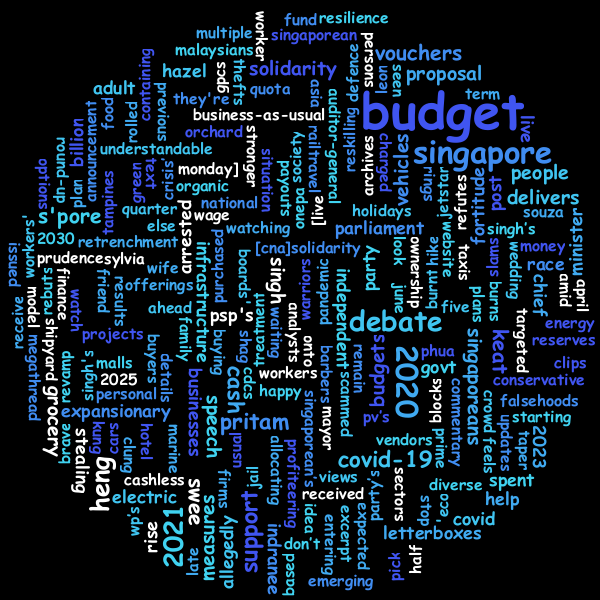
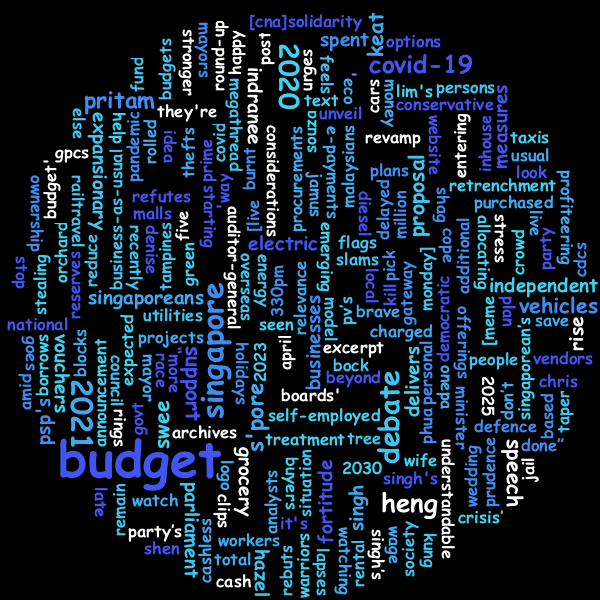
-

diff --git a/Spooder/src/main/java/Spooding/Spooder/TwitterCrawler.java b/Spooder/src/main/java/Spooding/Spooder/TwitterCrawler.java
@@ -143,7 +143,7 @@ public class TwitterCrawler extends Crawler {
 			System.out.printf("At %s, @%-15s :  %s\n", s.getCreatedAt().toString(), s.getUser().getScreenName(),
 					cleanString(s.getText()));
 
-			// instantiate new twitterobject
+			// instantiate new twitter object
 			TwitterPost currentTweet = new TwitterPost(cleanString(s.getText()), s.getUser().getScreenName());
 			this.twitterList.add(currentTweet);
 		}
@@ -162,7 +162,7 @@ public class TwitterCrawler extends Crawler {
 				.replaceAll("[\n\t]", " ")
 				// remove retweet "RT" tag
 				.replaceAll("RT ", "")
-				// remove usernames
+				// remove username tag
 				.replaceAll("@[\\S]+ ", "")
 				// remove links
 				.replaceAll("http[s]:[\\S]+", "")
@@ -187,9 +187,7 @@ public class TwitterCrawler extends Crawler {
 		List<String[]> writeList = new ArrayList<>();
 		CSVWriter writer = new CSVWriter(new FileWriter("twitter.csv"));
 		for (TwitterPost post : twitterList) {
-//			System.out.print(twitterList.indexOf(post)+1 + ". @" + post.getUser() + ": " + post.getTitle() + "\n");		//print out user handles and tweets
-//			String[] data = {post.getUser(), post.getTitle()};
-			String[] data = { post.getTitle() };
+			String[] data = {post.getUser(), post.getTitle()};
 			writeList.add(data);
 		}
 		writer.writeAll(writeList, false);

diff --git a/Spooder/src/main/java/Spooding/Spooder/WordCloudGenerator.java b/Spooder/src/main/java/Spooding/Spooder/WordCloudGenerator.java
@@ -84,8 +84,7 @@ public class WordCloudGenerator extends MongoConnect {
 		// there are 2 collision mode to choose from, PIXEL_PERFECT and RECTANGLE
 		final WordCloud wordCloud = new WordCloud(dimension, CollisionMode.PIXEL_PERFECT);
 		
-		// set other configurations
-		// set word to word spacing
+		// set word cloud configurations
 		wordCloud.setPadding(2);
 		wordCloud.setBackground(new CircleBackground(300));
 		wordCloud.setColorPalette(new ColorPalette(new Color(0x4055F1), new Color(0x408DF1), new Color(0x40AAF1), new Color(0x40C5F1), new Color(0x40D3F1), new Color(0xFFFFFF)));
